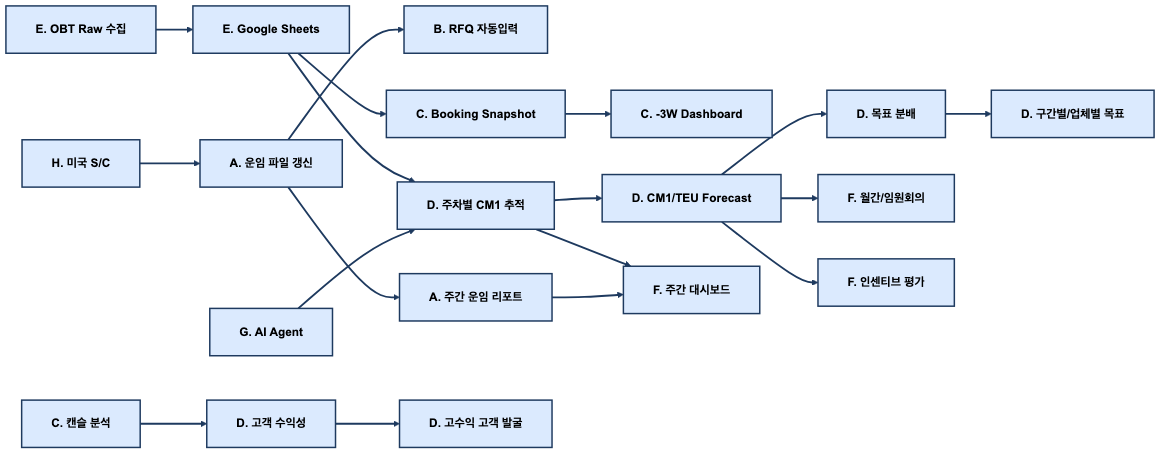
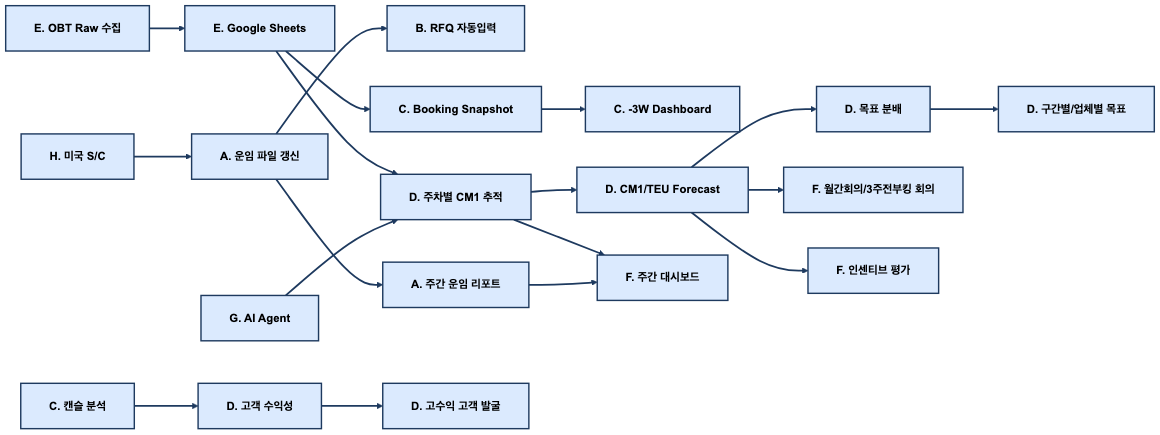
SZP 임원회의자료→SZP 3주전부킹 회의자료 전체 통일

diff --git a/index.html b/index.html
@@ -389,7 +389,7 @@ flowchart LR
     D4 --> D9["D. 고수익 고객 발굴"]
     D3 --> F1["F. 주간 대시보드"]
     A6 --> F1
-    D1 --> F2["F. 월간회의/3W 임원회의"]
+    D1 --> F2["F. 월간회의/3주전부킹 회의"]
     D1 --> F4["F. 인센티브 평가"]
     G5["G. AI Agent"] --> D3
     H5["H. 미국 S/C"] --> A3
@@ -503,7 +503,7 @@ flowchart TD
 
     subgraph LATE["월말 (21~말일)"]
         L1["월간회의 자료 작성"]
-        L5["SZP 3W 부킹 회의자료"]
+        L5["SZP 3주전부킹 회의자료"]
         L2["익월 운임 전략 수립"]
         L3["BSA 대비 실적 리뷰"]
         L4["시스템 개선사항 정리"]
@@ -752,7 +752,7 @@ flowchart LR
         <table>
             <tr><th>장표명</th><th>용도</th><th>최종 수정</th></tr>
             <tr><td>주차별 운임변동 확인</td><td>주요 항로별 운임 변동 추이 모니터링</td><td>2026-03-31</td></tr>
-            <tr><td>SZP 임원회의자료 준비</td><td>3주전 부킹 현황 기반 임원 보고용 대시보드</td><td>2026-04-14</td></tr>
+            <tr><td>SZP 3주전부킹 회의자료</td><td>3주전 부킹 현황 기반 임원 보고용 대시보드</td><td>2026-04-14</td></tr>
             <tr><td>bkg pattern</td><td>고객/항로별 부킹 패턴 분석</td><td>2026-02-04</td></tr>
             <tr><td>booking snapshot</td><td>주간 부킹 현황 스냅샷</td><td>2026-04-08</td></tr>
             <tr><td>부킹 캔슬 관리 (Q)</td><td>고캔슬 고객 식별 및 캔슬 비율 모니터링</td><td>2026-04-10</td></tr>
@@ -1010,7 +1010,7 @@ flowchart LR
 | 장표명 | 용도 | 최종 수정 |
 |--------|------|-----------|
 | 주차별 운임변동 확인 | 주요 항로별 운임 변동 추이 모니터링 | 2026-03-31 |
-| SZP 임원회의자료 준비 | 3주전 부킹 현황 기반 임원 보고용 대시보드 | 2026-04-14 |
+| SZP 3주전부킹 회의자료 | 3주전 부킹 현황 기반 임원 보고용 대시보드 | 2026-04-14 |
 | bkg pattern | 고객/항로별 부킹 패턴 분석 | 2026-02-04 |
 | booking snapshot | 주간 부킹 현황 스냅샷 | 2026-04-08 |
 | 부킹 캔슬 관리 (Q) | 고캔슬 고객 식별 및 캔슬 비율 모니터링 | 2026-04-10 |
